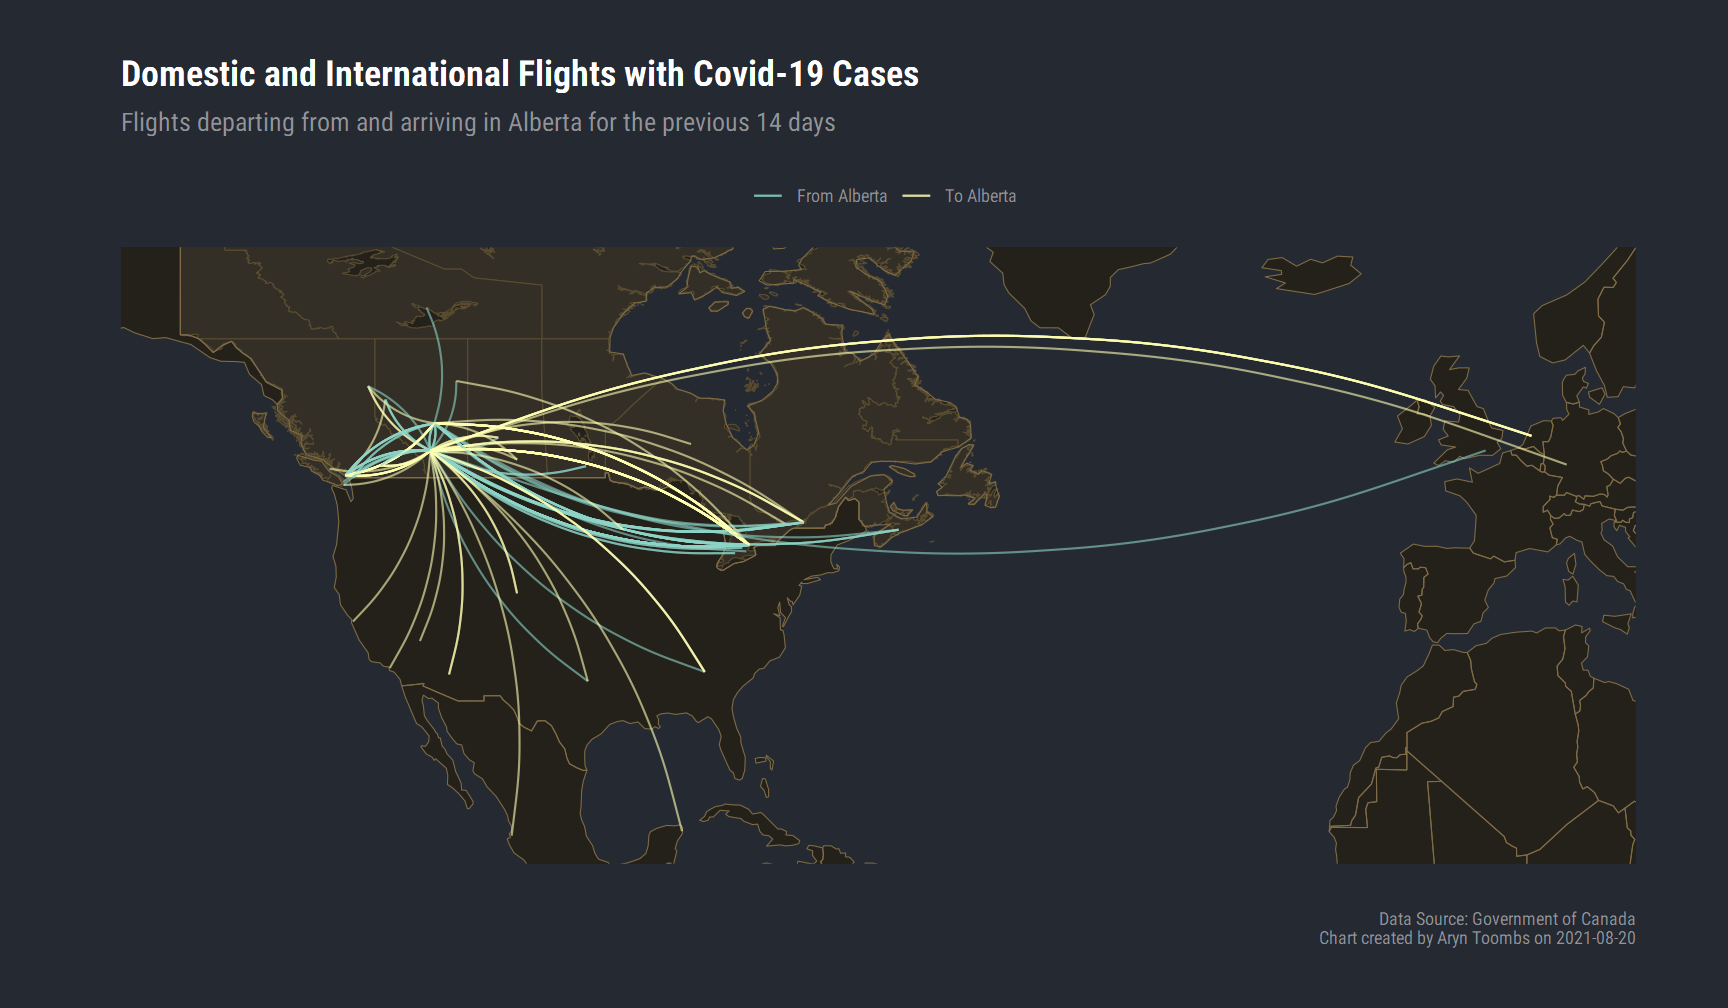
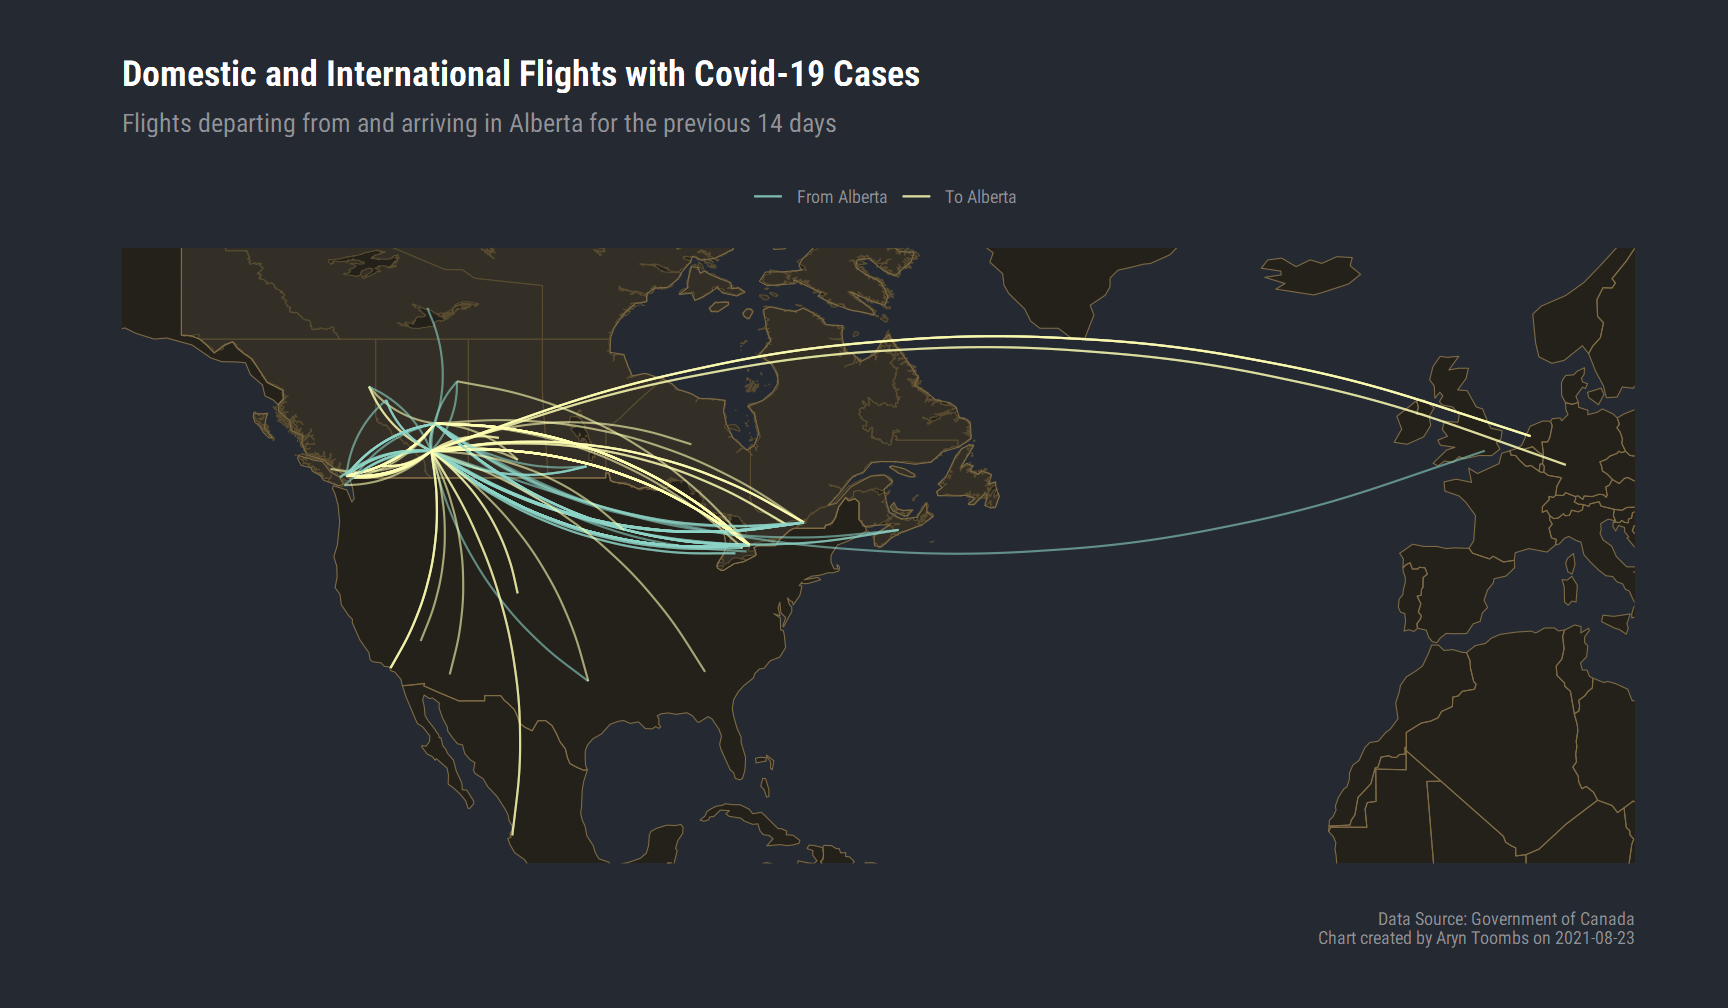
web

diff --git a/index.html b/index.html
@@ -296,7 +296,7 @@
         Domestic Flights to Alberta
       </div>
       <div class="row box-bottom justify-content-center">
-        <h4>62</h4>
+        <h4>69</h4>
       </div>
     </div>
 
@@ -305,7 +305,7 @@
         Domestic Flights from Alberta
       </div>
       <div class="row box-bottom justify-content-center">
-        <h4>92</h4>
+        <h4>93</h4>
       </div>
     </div>
 
@@ -314,7 +314,7 @@
         International Flights to Alberta
       </div>
       <div class="row box-bottom justify-content-center">
-        <h4>21</h4>
+        <h4>19</h4>
       </div>
     </div>
 
@@ -323,7 +323,7 @@
         International Flights from Alberta
       </div>
       <div class="row box-bottom justify-content-center">
-        <h4>3</h4>
+        <h4>2</h4>
       </div>
     </div>
 
